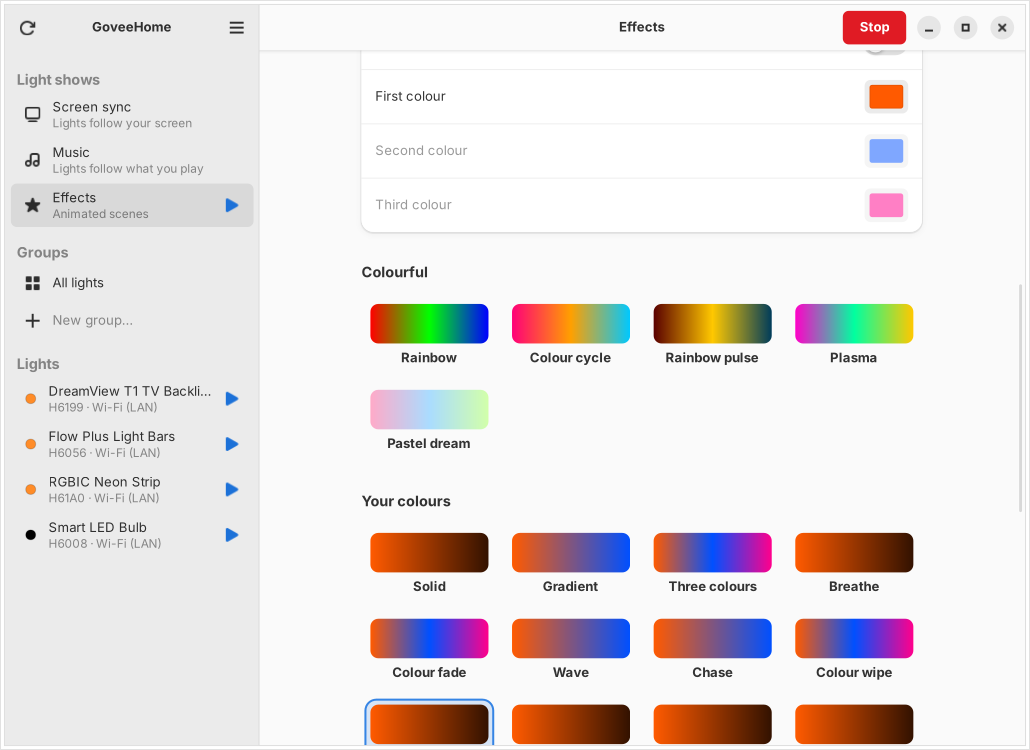
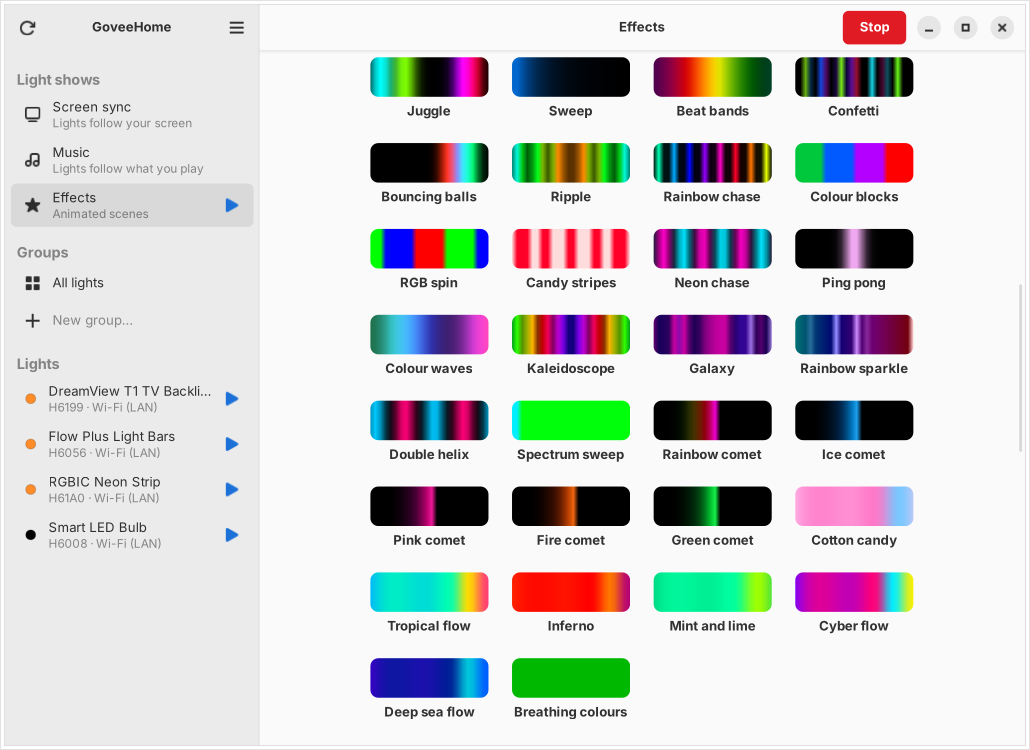
Docs and version for 1.5.0

Changed region(s): [[0.3417, 0.644, 0.901, 1.0], [0.3417, 0.184, 0.901, 0.6133], [0.3417, 0.0613, 0.901, 0.1533]]

diff --git a/goveehome/__init__.py b/goveehome/__init__.py
@@ -1,6 +1,6 @@
 """GoveeHome for Linux - control Govee lights from the Linux desktop."""
 
-__version__ = "1.4.0"
+__version__ = "1.5.0"
 APP_ID = "io.github.vanquish1905.GoveeHome"
 APP_NAME = "GoveeHome for Linux"
 GITHUB_REPO = "Vanquish1905/GoveeHome-For-Linux"

diff --git a/SETUP.md b/SETUP.md
@@ -91,7 +91,7 @@ make rpm
 ```
 
 ```bash
-sudo dnf install ~/rpmbuild/RPMS/noarch/goveehome-1.4.0-1.*.noarch.rpm
+sudo dnf install ~/rpmbuild/RPMS/noarch/goveehome-1.5.0-1.*.noarch.rpm
 ```
 
 ## 3. Install on other distributions
@@ -209,11 +209,12 @@ The defaults are a good start. If the lights still don't look like the screen, i
 2. **LED gamma** (Screen sync → Colours): LEDs at half power look much brighter than a screen
    at half brightness. Gamma makes up for that. Colours look washed out or pastel → raise it
    (2.2–2.6). Dark scenes are too dark on the lights → lower it (1.6–1.8).
-3. **Colour pick**: *Colourful* (the default) lets the colours in a zone win over white, grey
-   and black areas, so a zone that is half white page and half red video gives red. *Dominant
-   colour* takes the colour that covers the most of the zone. *Exact average* is the plain
-   average of everything in the zone; it matches the screen literally, which on a normal
-   desktop mostly means white and grey.
+3. **Colour pick**: *Colourful* (the default) takes the strongest colour in a zone and lets it
+   win over white, grey and black areas, so a zone that is half white page and half red video
+   gives red, and a zone full of different colours gives the strongest of them instead of a
+   grey mix. *Dominant colour* takes the colour that covers the most of the zone. *Exact
+   average* is the plain average of everything in the zone; it matches the screen literally,
+   which mostly means grey and white.
 4. **Saturation** 100–130 % and **Black level** (colours darker than this are sent as black,
    so dark scenes don't turn the lights a dim brown).
 5. **Ignore black bars** stops letterboxed films from making the top and bottom zones black.
@@ -247,8 +248,14 @@ tropical, retro, club, Christmas, Halloween, white) or **Your colours**: up to s
 you choose under *Your colours* with the + and − buttons. Changing one of them switches to
 your palette. *Sensitivity* sets how strongly it reacts.
 
-**Effects** (sidebar, Ctrl+3) are 37 animated scenes rendered on the PC, in four groups:
+**Effects** (sidebar, Ctrl+3) are 67 effects rendered on the PC, in five groups. Every card
+plays a live preview of its effect while the page is open.
 
+- *Animated*: moving, multi-coloured animations: juggle, sweep, beat bands, confetti,
+  bouncing balls, ripple, rainbow chase, colour blocks, RGB spin, candy stripes, neon chase,
+  ping pong, colour waves, kaleidoscope, galaxy, rainbow sparkle, double helix, spectrum
+  sweep, comets (rainbow, ice, pink, fire, green), colour flows (cotton candy, tropical,
+  inferno, mint and lime, cyber, deep sea) and breathing colours
 - *Colourful*: rainbow, colour cycle, rainbow pulse, plasma, pastel dream
 - *Your colours*: solid, gradient, three colours, breathe, colour fade, wave, chase, colour
   wipe, meteor, scanner, heartbeat, strobe
@@ -402,14 +409,22 @@ Go through [Getting the colours to match](#getting-the-colours-to-match). With m
 monitor make sure the right one is captured (Wayland: *Ask again* and pick it; X11:
 *Capture → Monitor*).
 
-**Screen sync: the lights only show white (in different brightnesses)**
+**Screen sync: the lights only change brightness, not colour**
 
-That's what the screen edges look like on a normal desktop: white pages, grey windows. Update
-to 1.4.0 or newer, which takes the colours from the video instead (*Follow the video*) and
-uses the *Colourful* colour pick. Check that both are on in Screen sync. For a quick test,
-play a colourful video fullscreen. If the preview shows colour but the lights stay white,
-press *Identify* on the light's page; if that shows red and blue, the light is fine and the
-colour pick or *Saturation* needs raising, otherwise see *Segment streaming* above.
+Update to 1.5.0 or newer. Older versions averaged each zone (and, for lights without segment
+streaming, the whole screen) into one colour, and different colours average out to grey or
+white. Now the strongest colour wins. Check that *Colour pick* is *Colourful* and
+*Follow the video* is on.
+
+Then look at the Screen sync page while it runs:
+
+- The line under the status says how much of the captured picture is colourful. If it says
+  0 % while your screen is clearly colourful, capture is the problem: open an issue on GitHub
+  with your desktop (GNOME / KDE, Wayland / X11) and what the line says.
+- Each light in the list has a colour strip showing exactly what it is being sent. If the
+  strip is colourful but the light stays white, press *Identify* on the light's page. If the
+  light shows red and blue there, raise *Saturation*. If it doesn't, the light doesn't take
+  segment streaming: turn *Segment streaming* off for it; it then gets one strong colour.
 
 **Lights flash or flicker at random**
 

diff --git a/README.md b/README.md
@@ -22,7 +22,8 @@ screen and your music, like DreamView and music mode in the Govee PC app.
   like the H6056 Flow Plus (one bar on each side of the screen)
 - *Follow the video*: when a film or game runs in a window, the lights take their colours
   from it instead of the white page or desktop around it
-- An *Identify* test that shows on the light which side of the screen each segment follows
+- An *Identify* test that shows on the light which side of the screen each segment follows,
+  and a live colour strip per light showing exactly what it is being sent
 - Colours that match: every screen pixel counts, mixing happens in linear light and the
   result is gamma corrected for LEDs; per-light white balance on top
 - Fast: in testing on X11, about 35 ms from a change on the screen to the command leaving
@@ -34,10 +35,12 @@ screen and your music, like DreamView and music mode in the Govee PC app.
 (no microphone). Six modes (spectrum, mirrored spectrum, energy, beat pulse, bass glow,
 rolling) and 25 colour palettes, including your own colours.
 
-**Effects**: 37 animated scenes rendered on the PC, no cloud needed: rainbow, plasma, fire,
-candle, lava lamp, aurora, ocean, thunderstorm, snowfall, sunrise alarm, fireworks, twinkle,
-meteor, scanner, chase, Christmas and more. Speed, brightness, size, direction and up to
-three of your own colours.
+**Effects**: 67 effects rendered on the PC, no cloud needed, with live animated previews on
+the effects page. 30 of them are moving, multi-coloured animations (juggle, bouncing balls,
+ripple, confetti, colour waves, kaleidoscope, galaxy, double helix, comets in five colours,
+colour flows and more); the rest include rainbow, plasma, fire, candle, lava lamp, aurora,
+ocean, thunderstorm, snowfall, sunrise alarm, fireworks, twinkle, meteor, scanner, chase and
+Christmas. Speed, brightness, size, direction and up to three of your own colours.
 
 **For every light show you choose which lights take part**, one by one, all at once or by
 group.
@@ -138,9 +141,12 @@ Targets can be a name (or part of one), an IP address, a device id, or `all`.
    in a window, the zones are laid over the video instead of the whole screen, so the white
    page around it doesn't turn the lights white. Letterbox bars of films are cut off.
 3. **Zones.** Each light gets one zone per segment, depending on how it's mounted.
-4. **Colour.** Within each zone, coloured pixels count far more than white, grey and black
-   ones, and mixing happens in linear light (red next to green gives yellow, not brown). A
-   zone that really is white stays white. Saturation and a black level are applied.
+4. **Colour.** Within each zone the app looks for the strongest colour family: pixels are
+   grouped by hue and weighted by how saturated and bright they are, and only the winning
+   group is averaged (in linear light). Averaging everything would turn a colourful picture
+   into grey, because different colours cancel out, and white pages wash it out further. A
+   zone that really is white or grey stays that way. Lights that can only show one colour
+   get the strongest colour of all their zones the same way.
 5. **Smoothing.** Time based, 40 ms by default, and big jumps like scene cuts go through at
    once.
 6. **Output.** Colours are gamma corrected for LEDs and white balanced per light. Segment
